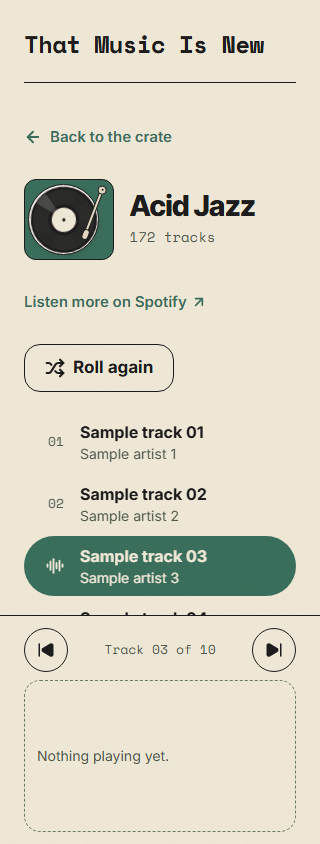
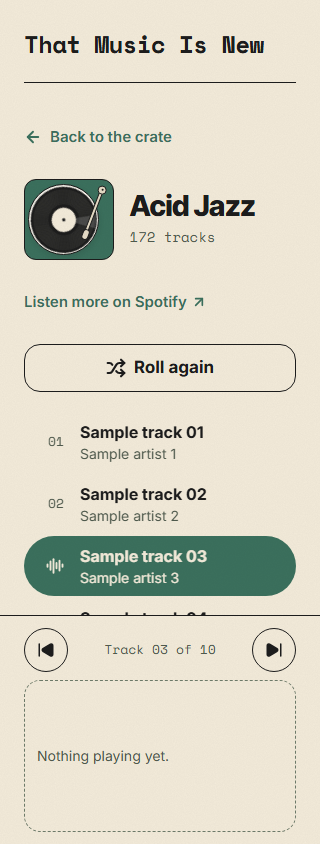
feat(result): full-width roll again on phones once the player is ready
Claude-Session: https://claude.ai/code/session_0134cvfozXFfikS5Uah1s11k

diff --git a/tests/e2e/player.spec.ts b/tests/e2e/player.spec.ts
@@ -60,3 +60,14 @@ test("when a track ends the next one plays; after the last one it stops", async 
   await expect(record(page)).toHaveAttribute("data-spinning", "false");
   await expect(embedTrack(page)).toHaveAttribute("src", /track-2$/); // no loop back to track 01
 });
+
+test("on phones, Roll again spans the full column width once the player is ready", async ({ page }, info) => {
+  test.skip(info.project.name !== "mobile", "phone layout only (< 1024px)");
+  await page.goto("/acid-jazz");
+  await expect(page.getByText("Sample track 02")).toBeVisible();
+
+  const roll = page.getByRole("button", { name: "Roll again" });
+  const column = page.getByRole("link", { name: "Back to the crate" }).locator("xpath=ancestor::section[1]");
+  const [r, c] = await Promise.all([roll.boundingBox(), column.boundingBox()]);
+  expect(Math.round(r!.width)).toBe(Math.round(c!.width));
+});

diff --git a/src/features/result/result-view.tsx b/src/features/result/result-view.tsx
@@ -191,8 +191,9 @@ export function ResultView({ genre }: ResultViewProps) {
                 </a>
               )}
               {/* <lg: Roll again lives in the bottom bar (thumb reach). */}
-              {/* <lg: here only while a player fills the bottom bar (152px embed needs the full width). */}
-              <RollAgain onRoll={randomize} className={ready ? "" : "max-lg:hidden"} />
+              {/* <lg: here only while a player fills the bottom bar (152px embed needs the full width), on its own
+                  row at full width under "Listen more on Spotify". */}
+              <RollAgain onRoll={randomize} className={ready ? "max-lg:w-full" : "max-lg:hidden"} />
             </div>
           </div>
 

diff --git a/DESIGN.md b/DESIGN.md
@@ -251,7 +251,7 @@ Genre page (`/{slug}`, ≥1024px): same container; two columns, deck | fluid inf
 Below 1024px (phones and tablets, one layout, decided 2026-11-15, brief `docs/design/mobile-brief.md`): one centred column, max 720px, 24px side padding (header, main row and steps share it). No separate tablet design.
 - **Home:** same order as desktop, compacted: hero (display scales with the column below 640px, `clamp(40px, (100vw − 48px) / 6, 56px)`, so the headline stays 3 lines on every phone down to 320px; 96px (display max) from 640px so it fills the 720px tablet column; below 640px the small sparkle hides and the large one tucks in to stay on screen), crate, History (no min height), steps stacked with vertical connectors. Nothing fixed on screen.
 - **Genre page:** the deck and info columns dissolve into one grid. "Back to the crate"; a **mini turntable** (clamp 88–120px wide, same geometry and motion; thinner arm and head, no "33⅓", 12px radius) beside the title + meta; "Listen more on Spotify" on its own 44px row (reserved while loading); tracks in one column; "Your finds" as one sideways-scrolling row of mini sleeves that bleeds to the screen edges.
-- **Bottom bar (genre page only):** fixed, Kinari with a 1.5px Sumi top rule, safe-area aware. In the ready state it holds the track transport row (44px: ⏮ · "Track 03 of 10" · ⏭, #55) above the player: the 152px Spotify Embed at full width (Spotify's minimum width is 280px, so nothing sits beside it; decided 2026-11-16), and Roll again (secondary, always labelled) moves up beside "Listen more on Spotify" (wrapping under it on narrow phones). Outside ready (loading, error, busy, empty) the bar holds Roll again instead (56px, full width). The top Roll again is hidden then. The bar is last in the DOM (reading order unchanged); the page reserves the bar's height under it (244px + safe area when ready, 120px otherwise), and `scroll-padding-bottom` (same values, by bar state) keeps focused elements clear of it (WCAG 2.4.11).
+- **Bottom bar (genre page only):** fixed, Kinari with a 1.5px Sumi top rule, safe-area aware. In the ready state it holds the track transport row (44px: ⏮ · "Track 03 of 10" · ⏭, #55) above the player: the 152px Spotify Embed at full width (Spotify's minimum width is 280px, so nothing sits beside it; decided 2026-11-16), and Roll again (secondary, always labelled) moves up to its own row under "Listen more on Spotify", at full width (#55 PR). Outside ready (loading, error, busy, empty) the bar holds Roll again instead (56px, full width). The top Roll again is hidden then. The bar is last in the DOM (reading order unchanged); the page reserves the bar's height under it (244px + safe area when ready, 120px otherwise), and `scroll-padding-bottom` (same values, by bar state) keeps focused elements clear of it (WCAG 2.4.11).
 
 Touch (`touch:` variant = `(hover: none), (pointer: coarse)`, at any width, so iPad landscape gets it on the desktop layout): page actions ≥44px (Back, Listen more, Dig deeper, Restock, History footer links, "Your finds" pills and sleeves); the History ✕ is always visible (44px) and replaces the chevron; hover-only effects (finds lift, track ▶ on hover) exist only with `(hover: hover)` (Tailwind `hover:` already does this); the Space shortcut and kbd hint stay off. Exceptions (≥24px, WCAG 2.2 AA 2.5.8): closed crate sleeves keep their 28px visible tab (44px would stretch the crate ~130px); the ✕ on a mini "Your finds" sleeve is a 32px target (44px would cover a third of the 76px sleeve).
 
